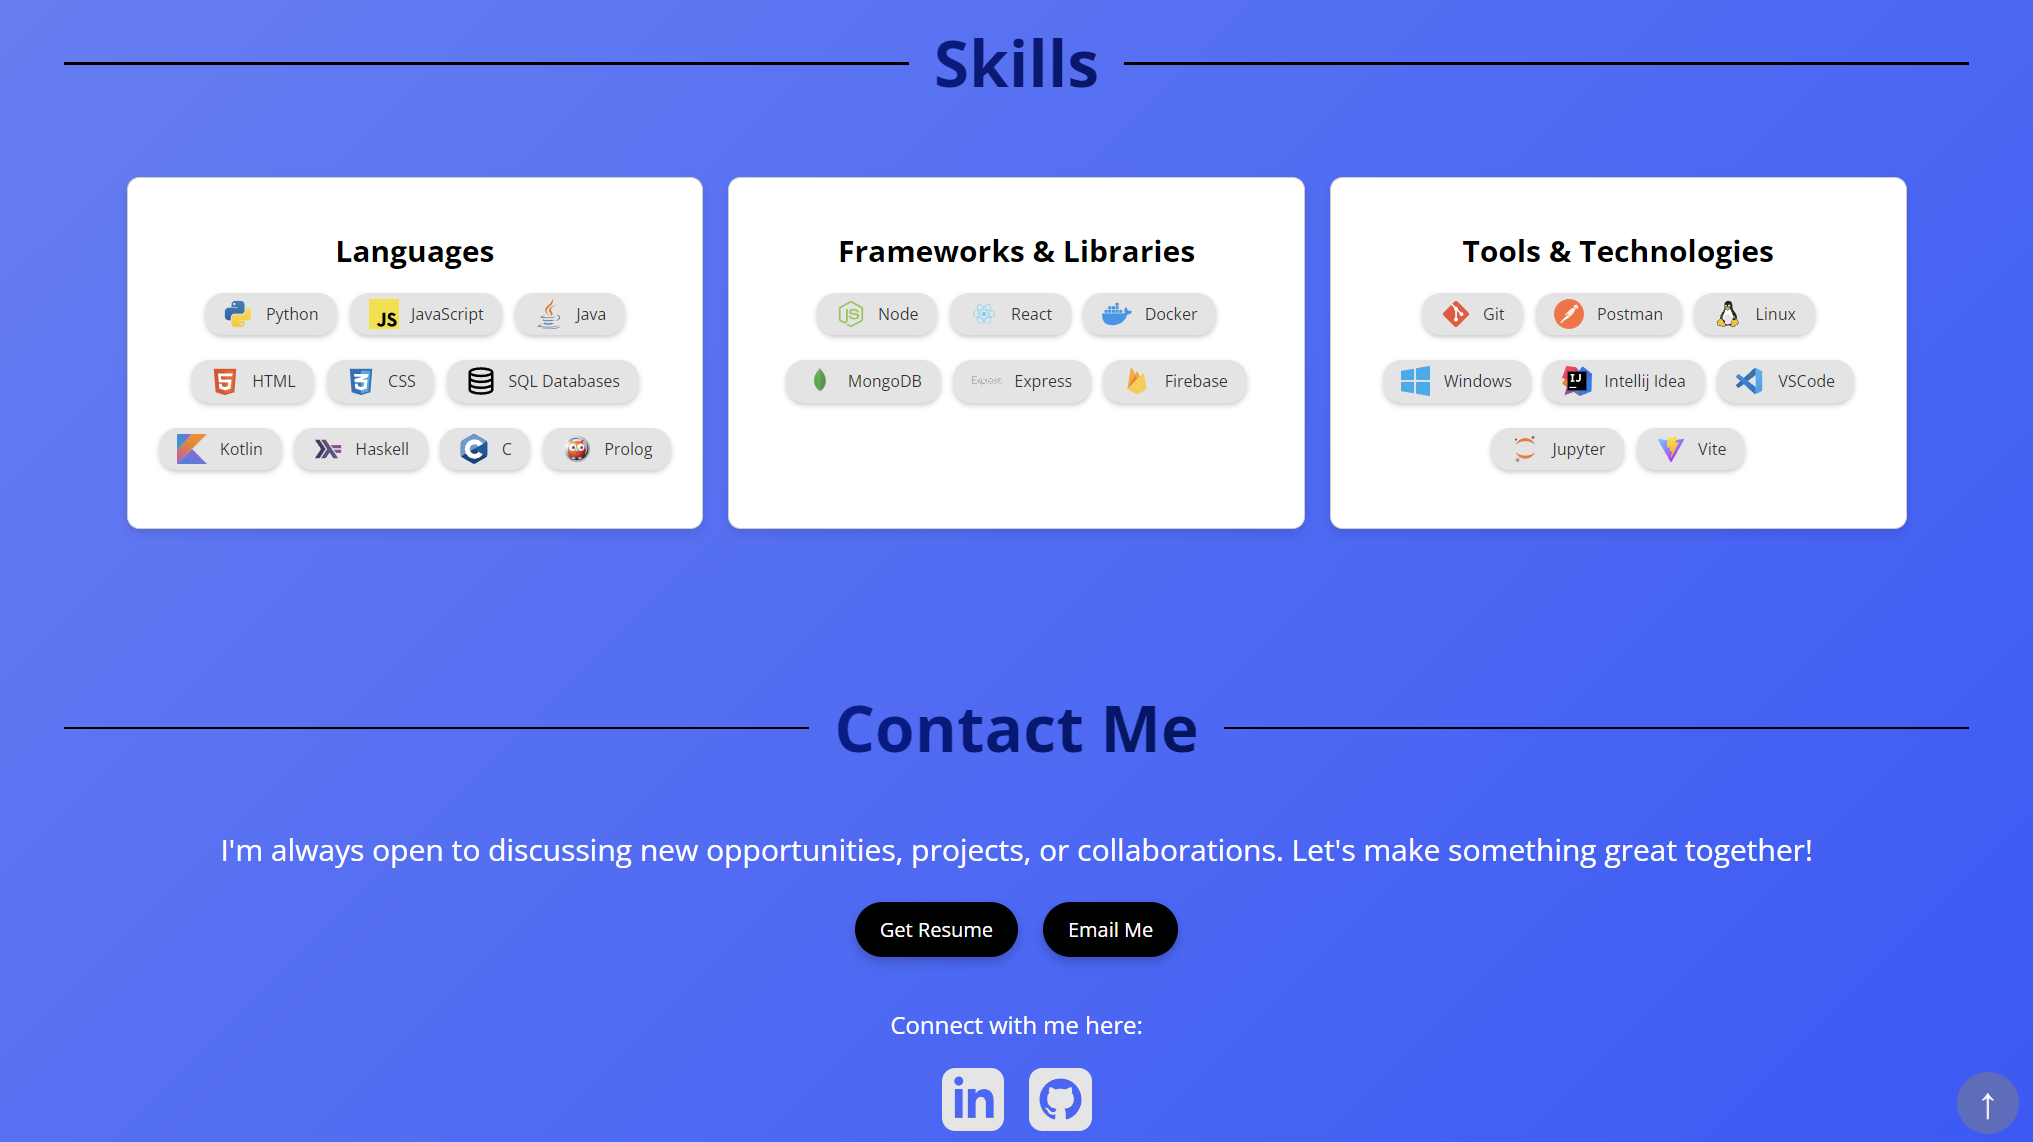
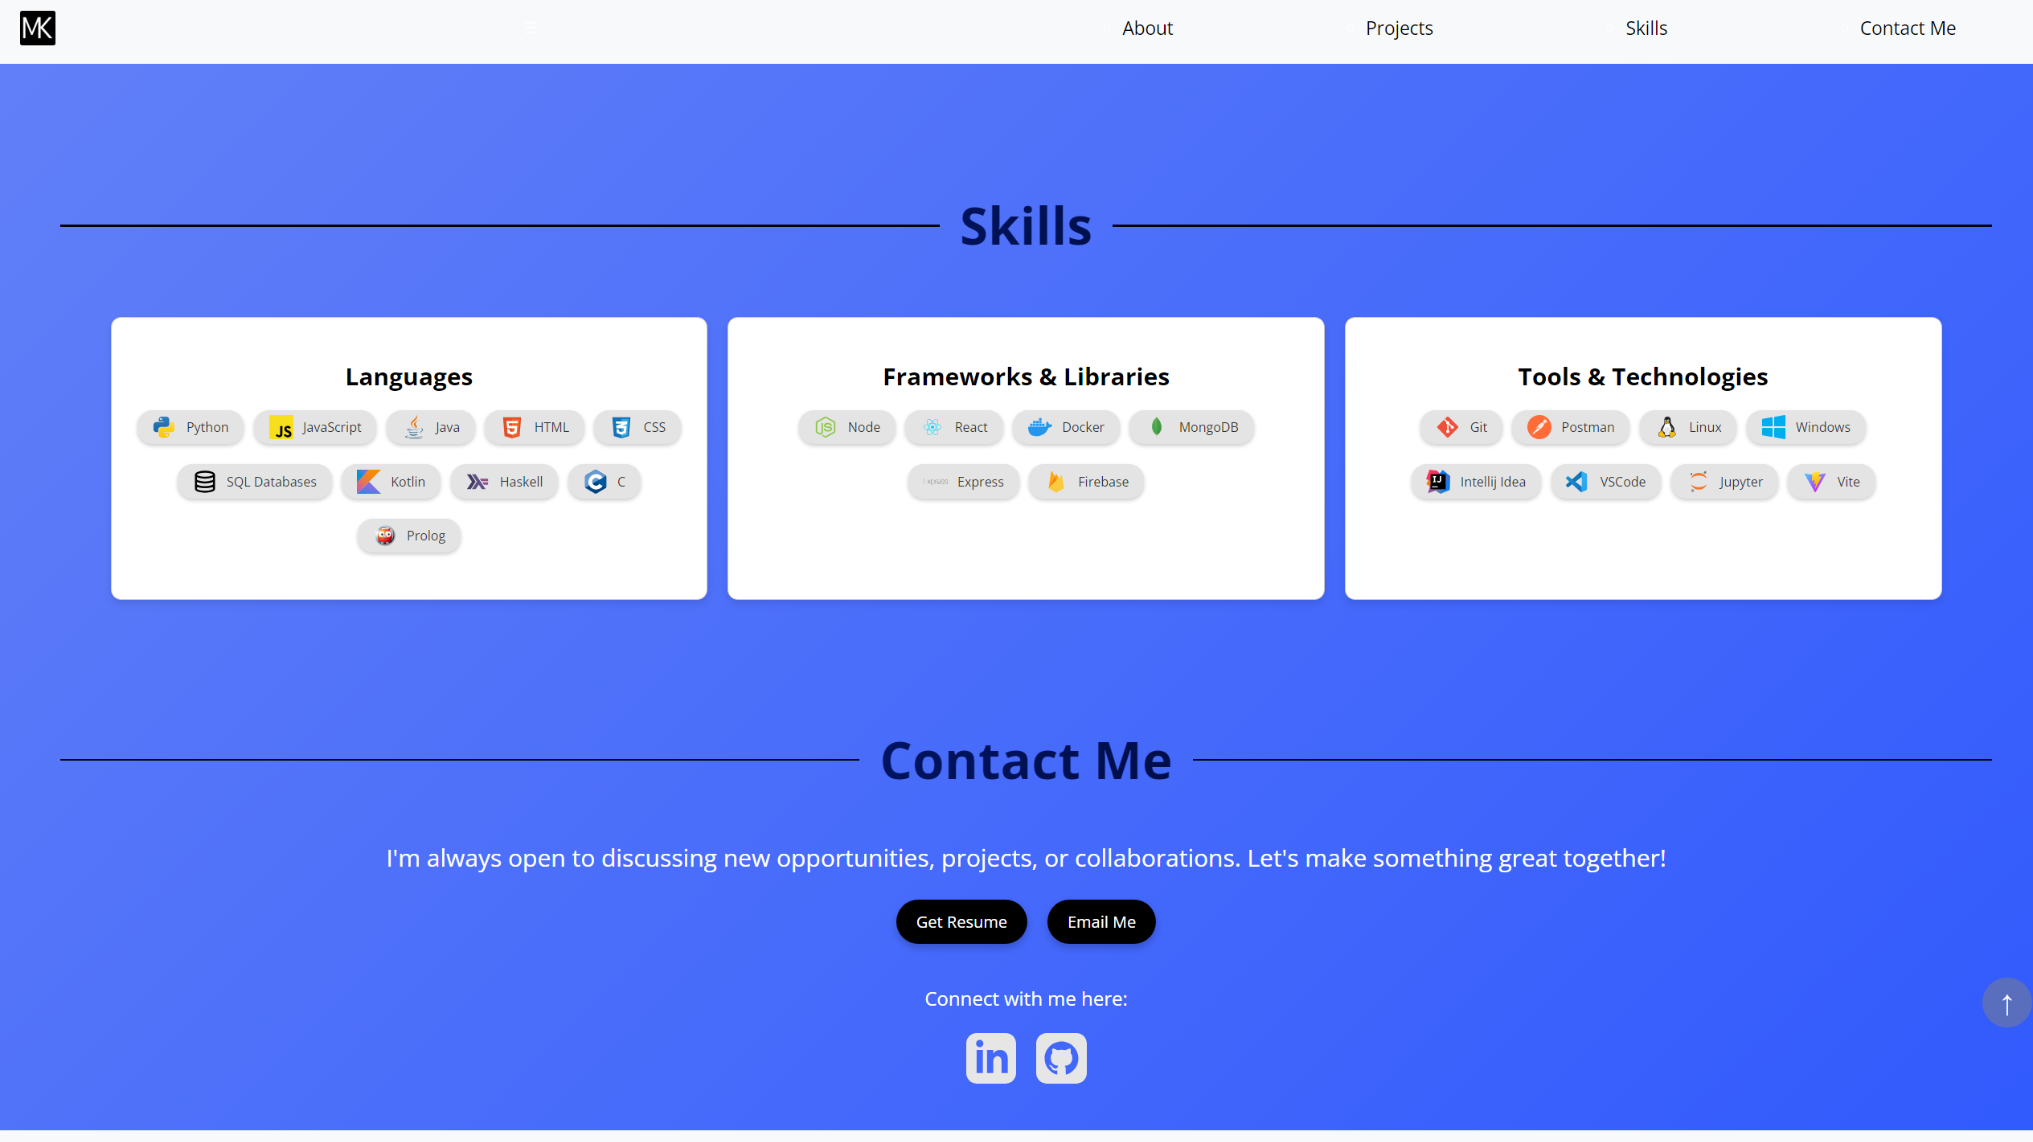
Small Chanes

diff --git a/src/pages/about.jsx b/src/pages/about.jsx
@@ -16,10 +16,11 @@ const About = () => {
             <h1 className="about-me-title">About Me</h1>
             <div className="about-me-container">
                 <div className="about-text">
-                    My name is Mustakim Kazi and I am a full-stack web developer. 
-                    I am currently a 3rd year student at McMaster University studying Computer Science.
-                    I am currently looking for an internship for the summer of 2024 as a software engineer.
-                    Feel free to <a href="#contact" onClick={handleContactClick}>contact me</a> if you have any questions or would like to work with me! (WIP)
+                    My name is Mustakim Kazi and I&apos;m currently a 3rd year Computer Science student at McMaster University. 
+                    I&apos;m passionate about software development and my portfolio reflects a diverse range of projects, including a 
+                    custom UNIX shell, a full-stack Android application, a full-stack web application, and many more. I&apos;m actively 
+                    looking for a software engineering internship opportunity for the summer of 2024, and I would be more than happy to 
+                    answer any questions or explore potential collaborations. Please feel free to <a href="#contact" onClick={handleContactClick}>contact me</a> if you&apos;re interested!
                 </div>
                 <img src='./images/aboutme.jpg' alt="Picture of Me" className="about-pic" />
             </div>

diff --git a/src/pages/projects.jsx b/src/pages/projects.jsx
@@ -6,7 +6,7 @@ const sampleProjects = [
         id: 1,
         title: 'Personal Portfolio Website',
         description: "This portfolio website is a reflection of my journey in Full Stack Software Development, showcasing my projects, skills learned, and personal growth in the field. It's crafted with HTML, CSS, and JavaScript, and provides insights into my work, serving as a point of contact for potential collaborations and learning opportunities.",
-        imageUrl: ['./images/projects/portfoliowebsite1.png', './images/projects/portfoliowebsite4.png'], 
+        imageUrl: ['./images/projects/portfoliowebsite1.png', './images/projects/portfoliowebsite2.png', './images/projects/portfoliowebsite3.png', './images/projects/portfoliowebsite4.png'], 
         technologies: ['Javascript', 'React', 'HTML', 'CSS', 'Vite'],
         githubUrl: 'https://github.com/MustakimK/mustakimk.github.io',
         liveDemoUrl: 'https://ilied.com'

diff --git a/src/components/navbar.jsx b/src/components/navbar.jsx
@@ -50,7 +50,7 @@ const NavBar = () => {
                     <li><a href="#about" className="link" onClick={(e) => handleNavLinkClick(e, '#about')}>About</a></li>
                     <li><a href="#projects" className="link" onClick={(e) => handleNavLinkClick(e, '#projects')}>Projects</a></li>
                     <li><a href="#skills" className="link" onClick={(e) => handleNavLinkClick(e, '#skills')}>Skills</a></li>
-                    <li><a href="#contact" className="link" onClick={(e) => handleNavLinkClick(e, '#contact')}>Contact</a></li>
+                    <li><a href="#contact" className="link" onClick={(e) => handleNavLinkClick(e, '#contact')}>Contact Me</a></li>
                 </ul>
             </ul>
         </nav>

diff --git a/src/styles/projects.css b/src/styles/projects.css
@@ -1,5 +1,7 @@
 .projects {
     padding: 40px;
+    padding-left: 120px;
+    padding-right: 120px;
     display: grid;
     grid-template-columns: repeat(2, 1fr);
     grid-gap: 1px;
@@ -20,6 +22,8 @@
     -webkit-background-clip: text;
     background-clip: text;
     -webkit-text-fill-color: transparent;
+    margin-left: -80px;
+    margin-right: -80px;
 }
 
 .projects-title::before,

diff --git a/src/styles/contact.css b/src/styles/contact.css
@@ -11,7 +11,7 @@
     overflow: hidden;
     text-overflow: ellipsis;
     color: #000000;
-    background: -webkit-linear-gradient(315deg, #0433ed, #000000);
+    background: -webkit-linear-gradient(315deg, #0022a8, #000000);
     -webkit-background-clip: text;
     background-clip: text;
     -webkit-text-fill-color: transparent;

diff --git a/src/styles/skills.css b/src/styles/skills.css
@@ -10,7 +10,7 @@
     overflow: hidden;
     text-overflow: ellipsis;
     color: #000000;
-    background: -webkit-linear-gradient(315deg, #0433ed, #000000);
+    background: -webkit-linear-gradient(315deg, #0022a8, #000000);
     -webkit-background-clip: text;
     background-clip: text;
     -webkit-text-fill-color: transparent;

diff --git a/src/components/projectdisplay.css b/src/components/projectdisplay.css
@@ -1,8 +1,8 @@
 .project-display {
     display: flex;
     flex-direction: column;
-    margin-left: 50px;
-    margin-right: 50px;
+    margin-left: 60px;
+    margin-right: 60px;
     margin-bottom: 40px; 
     background: #ffffff;
     border-radius: 15px;

diff --git a/src/styles/navbar.css b/src/styles/navbar.css
@@ -38,6 +38,7 @@
     justify-content: space-around;
     width: 50%;
     transition: all 0.5s ease;
+    font-size: large;
 }
 
 .link {
